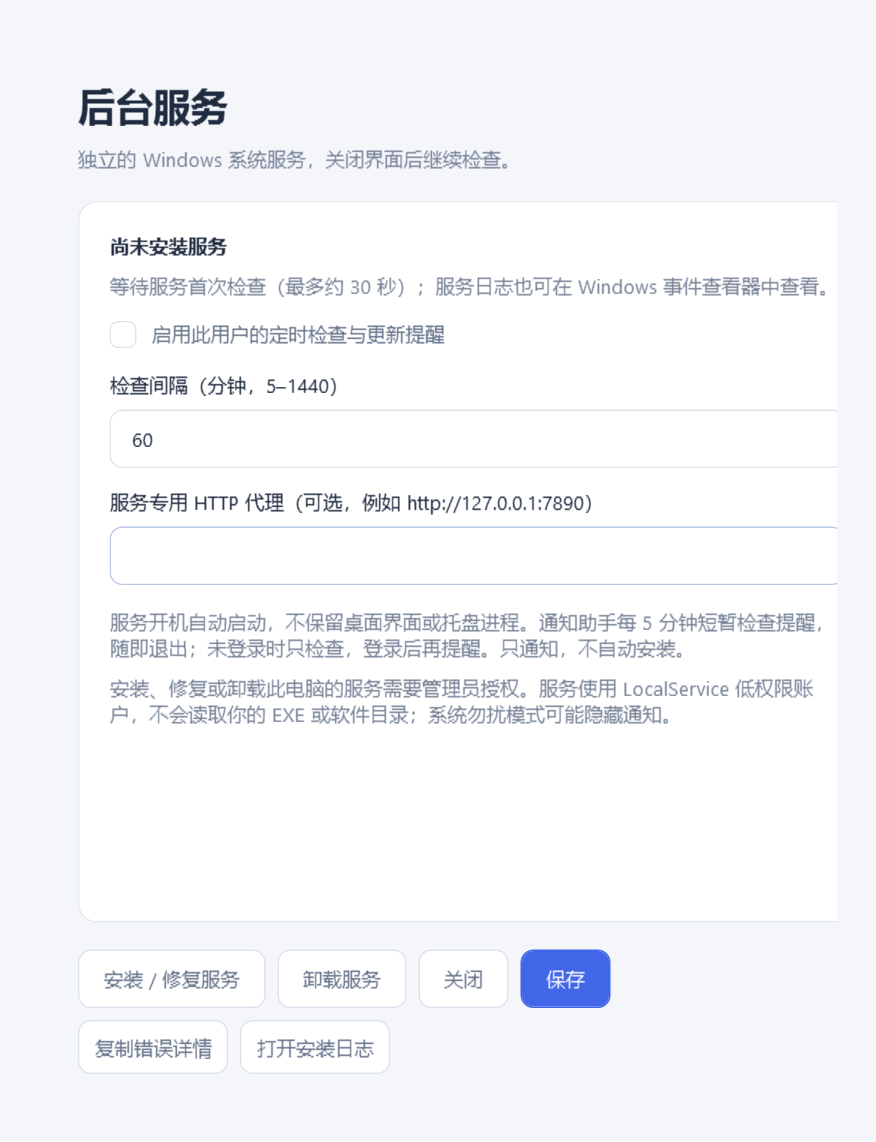
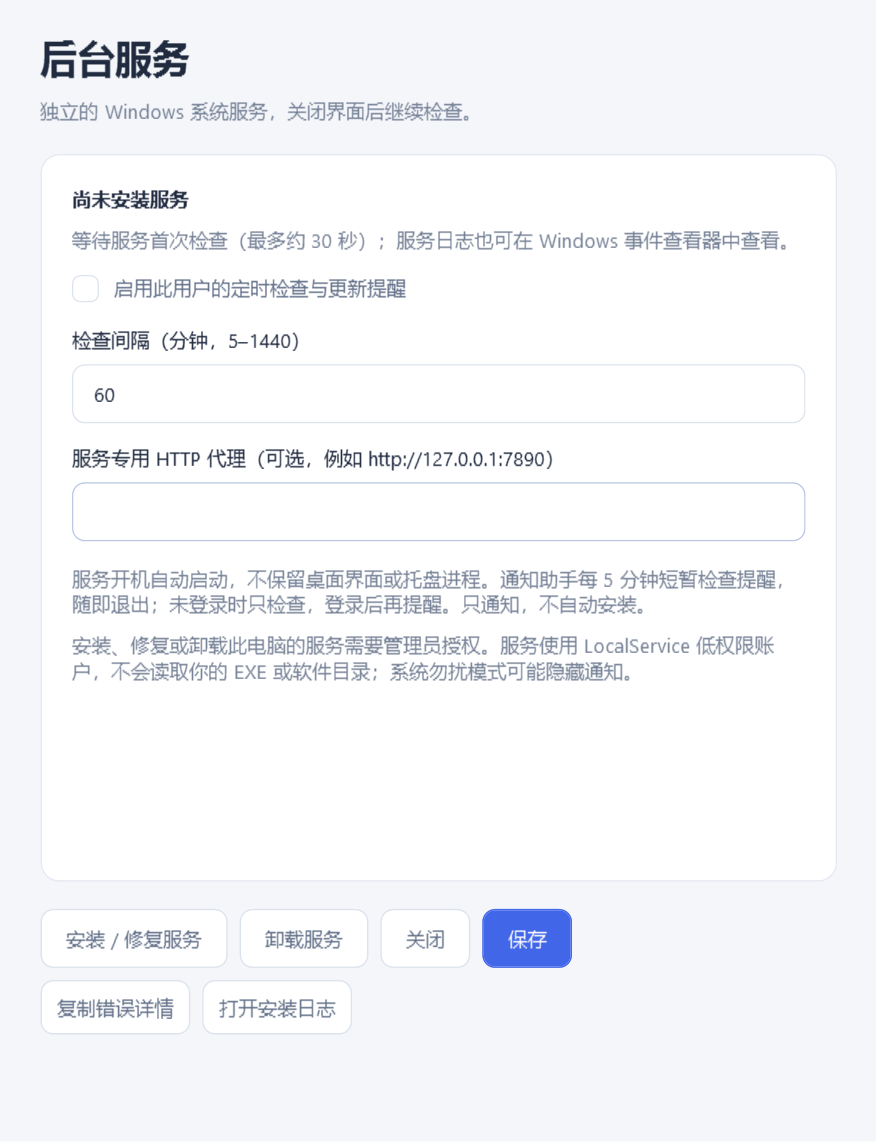
docs: retain full service settings screenshot [skip ci]

Changed region(s): [[0.0308, 0.0306, 0.9555, 0.6436], [0.0616, 0.7968, 0.4315, 0.9501], [0.4623, 0.7968, 0.7089, 0.8888]]

diff --git a/tests/UiSmoke.Tests/ScreenshotGallery.cs b/tests/UiSmoke.Tests/ScreenshotGallery.cs
@@ -50,7 +50,13 @@ internal static class ScreenshotGallery
         using(var drawing=visual.RenderOpen())
         {
             drawing.DrawRectangle(window.Background,null,new Rect(0,0,width,height));
-            drawing.DrawRectangle(new VisualBrush(content){ViewboxUnits=BrushMappingMode.Absolute,Viewbox=new Rect(0,0,content.ActualWidth,content.ActualHeight)},null,new Rect(content.Margin.Left,content.Margin.Top,content.ActualWidth,content.ActualHeight));
+            var brush=new VisualBrush(content);
+            if(content.Margin==new Thickness(0))
+            {
+                brush.ViewboxUnits=BrushMappingMode.Absolute;
+                brush.Viewbox=new Rect(0,0,content.ActualWidth,content.ActualHeight);
+            }
+            drawing.DrawRectangle(brush,null,new Rect(content.Margin.Left,content.Margin.Top,content.ActualWidth,content.ActualHeight));
         }
         var bitmap=new RenderTargetBitmap((int)Math.Ceiling(width*1.5),(int)Math.Ceiling(height*1.5),144,144,PixelFormats.Pbgra32);
         bitmap.Render(visual);var encoder=new PngBitmapEncoder();encoder.Frames.Add(BitmapFrame.Create(bitmap));
